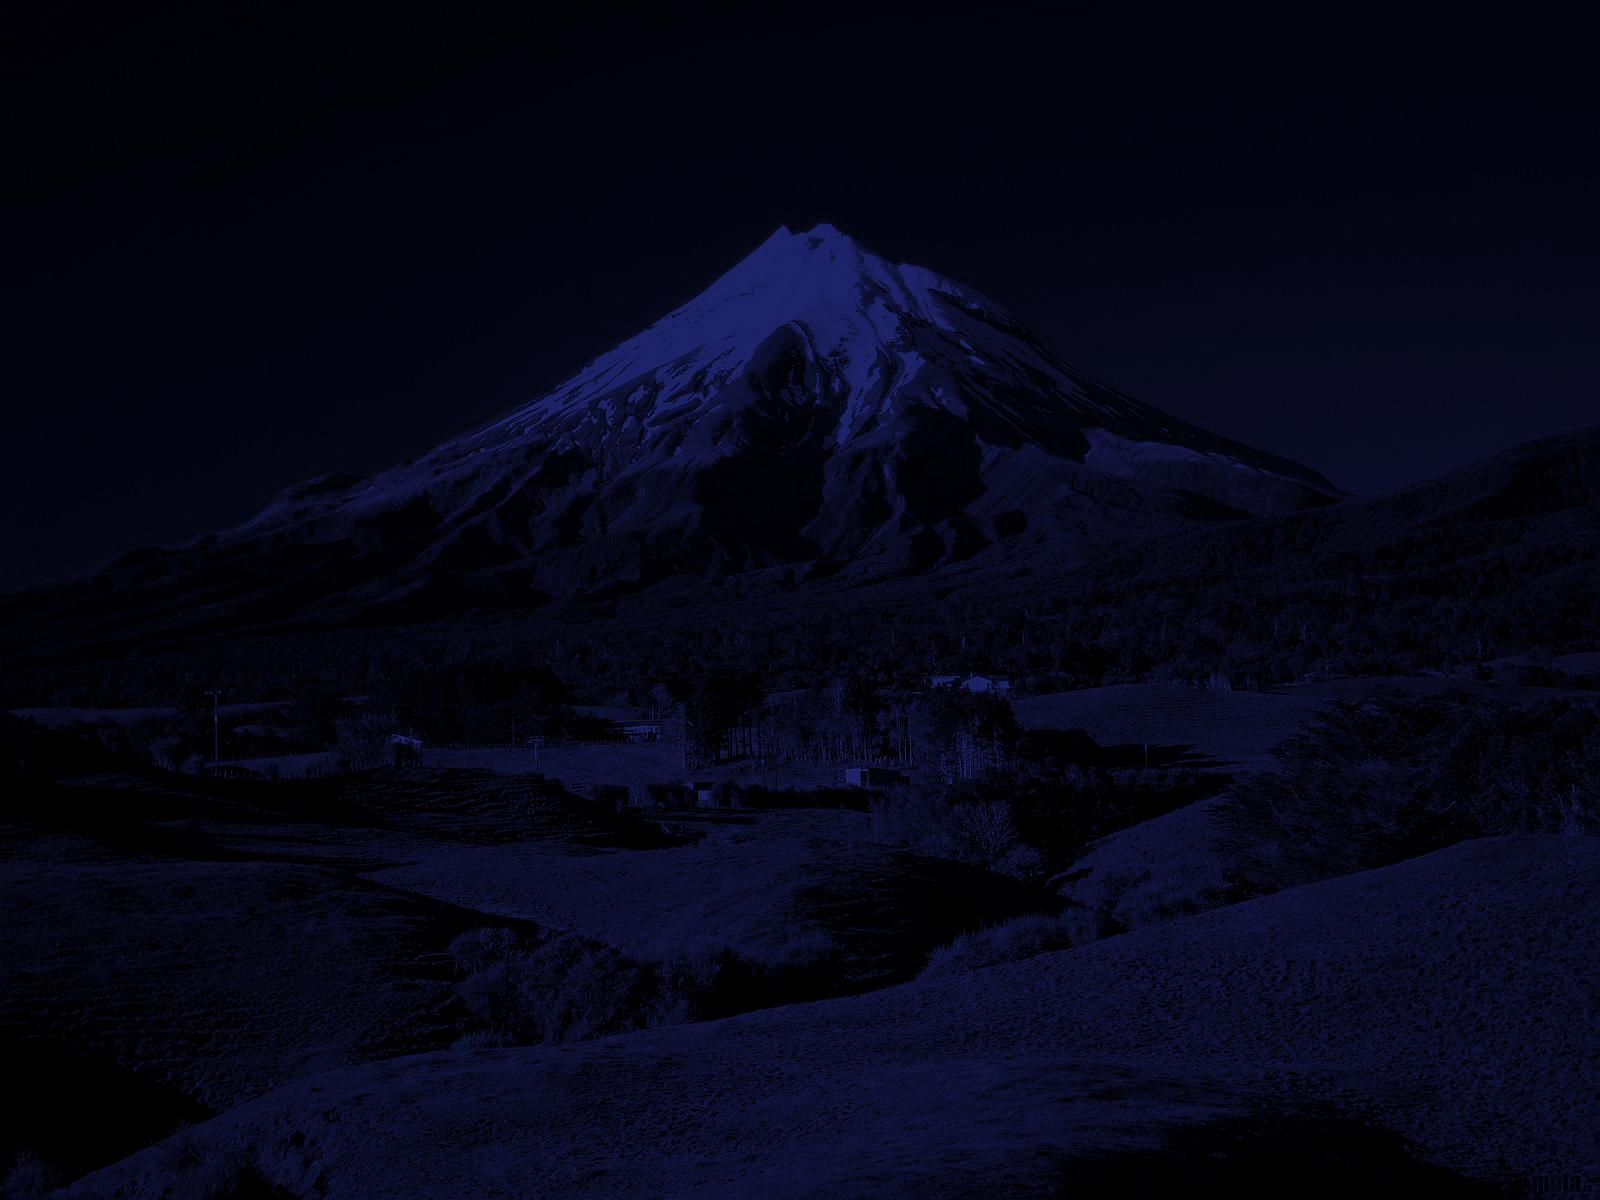
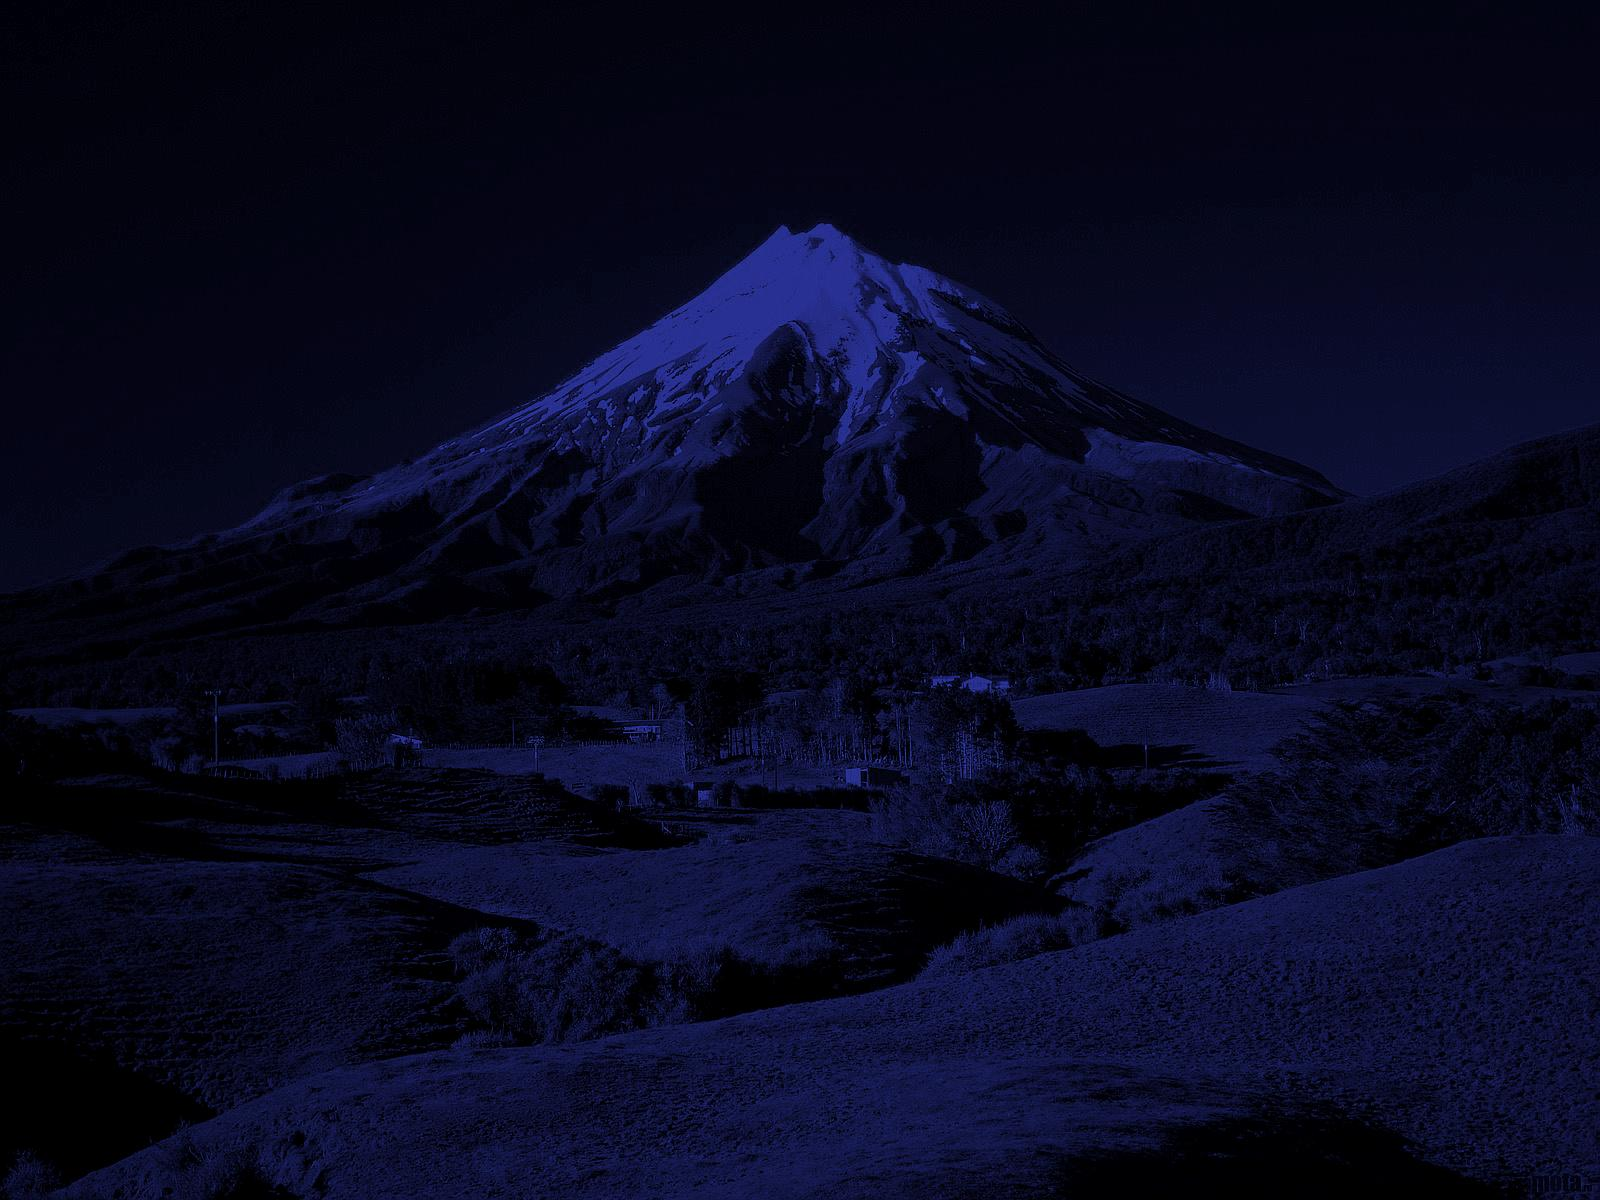
Update

diff --git a/Produccion/Juan Perez/DiaNoche/DayNight.py b/Produccion/Juan Perez/DiaNoche/DayNight.py
@@ -22,15 +22,15 @@ def PasarDiaNoche(img):
     contraste = ImageEnhance.Contrast(imgNoche)
     imgNoche = contraste.enhance(1.2) #asigna un valor para el contraste de la imagen
     brillo = ImageEnhance.Brightness(imgNoche)
-    imgNoche = brillo.enhance(0.5) #asigna un valor para el brillo de la imagen
+    imgNoche = brillo.enhance(0.7) #asigna un valor para el brillo de la imagen
     nitidez = ImageEnhance.Sharpness(imgNoche)
-    imgNoche = nitidez.enhance(1.5) #asigna un valor para la nitidez de la imagen
+    imgNoche = nitidez.enhance(2) #asigna un valor para la nitidez de la imagen
     return imgNoche
 def main():
     """las siguientes dos lineas corresponden al nombre del archivo y la extension con el fin de
     nombrar el archivo de salida como <nombreArchivo>Noche.<extension>
     ejemplo: paisaje.jpg -> paisajeNoche.jpg"""
-    nombreImg = "mallCastro"
+    nombreImg = "paisaje2"
     extension = ".jpg"
     img=Image.open(nombreImg + extension)
     arrImg = convertirImgMatrixRGB(img)
